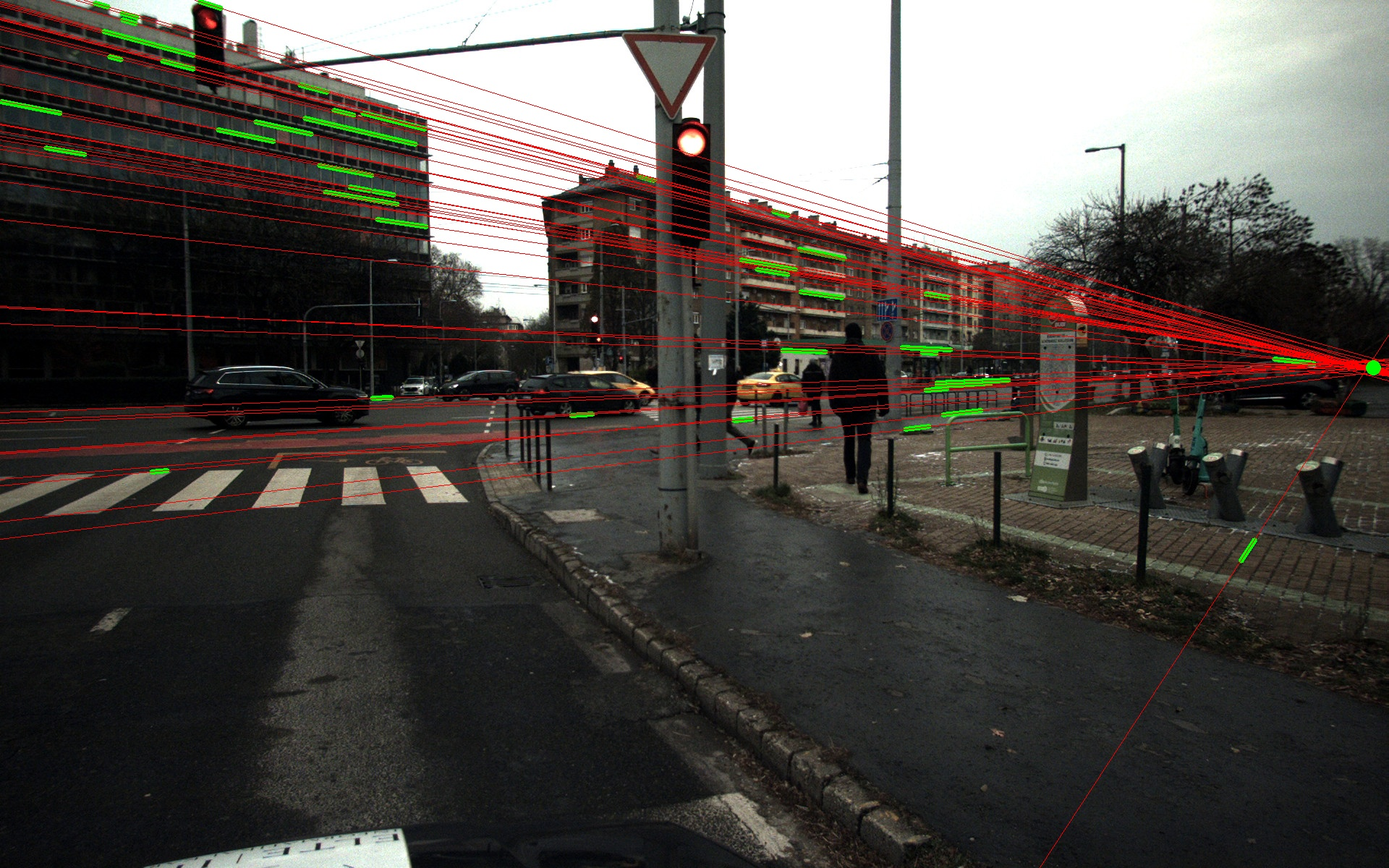
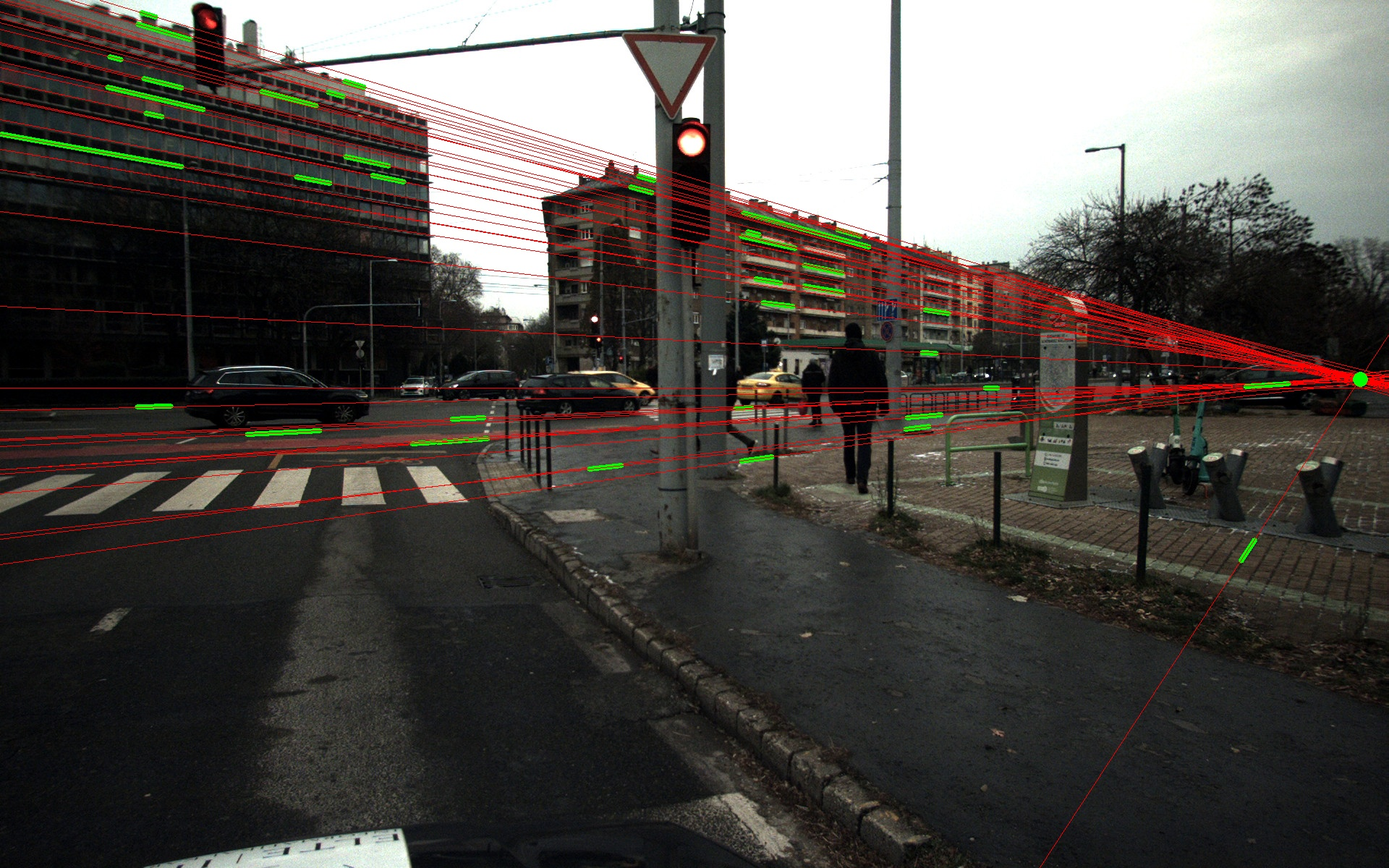
2

Changed region(s): [[0.0, 0.0, 1.0, 0.6167], [0.25, 0.37, 0.5312, 0.4008]]

diff --git a/ForOpenCV/VanishingPointEstimation.cpp b/ForOpenCV/VanishingPointEstimation.cpp
@@ -130,7 +130,7 @@ cv::Point2d VanishingPointEstimation::reestimateVanishingPoint(std::vector<cv::V
 			if (i != j) {
 				a1 = segments.at(i)[1] - segments.at(i)[3]; b1 = segments.at(i)[2] - segments.at(i)[0];
 				a2 = segments.at(j)[1] - segments.at(j)[3]; b2 = segments.at(j)[2] - segments.at(j)[0];
-				if (abs(a1 * b2 - b1 * a2) > 1) {
+				if (abs(a1 * b2 - b1 * a2) > 0) {
 					cv::Point2d p = intersection(segments.at(i), segments.at(j));
 					allVanishingPoints.push_back(p);
 				}
@@ -143,6 +143,54 @@ cv::Point2d VanishingPointEstimation::reestimateVanishingPoint(std::vector<cv::V
 		averageVanishingPoint += allVanishingPoints.at(i) / (int)allVanishingPoints.size();
 	}
 	//visualizeResults(std::vector<cv::Vec4i>{}, allVanishingPoints);
+	return averageVanishingPoint;
+}
+
+cv::Point2d VanishingPointEstimation::reestimateVanishingPointErrorBased(std::vector<cv::Vec4i> segments) {
+	//Finally, re-estimate the vanishing point based on all the inlier line segments. (8 points) 
+	cv::Point2d averageVanishingPoint(0, 0);
+	std::vector<cv::Point2d> allVanishingPoints;
+	float min_error = 1e37;
+	float err_now;
+	float a1, b1, c1;
+	float a2, b2, c2;
+	for (int i = 0; i < segments.size(); i++) {
+		for (int j = 0; j < segments.size(); j++) {
+			if (i != j) {
+				a1 = segments.at(i)[1] - segments.at(i)[3]; b1 = segments.at(i)[2] - segments.at(i)[0];
+				a2 = segments.at(j)[1] - segments.at(j)[3]; b2 = segments.at(j)[2] - segments.at(j)[0];
+				if (abs(a1 * b2 - b1 * a2) > 0) {
+					cv::Point2d p = intersection(segments.at(i), segments.at(j));
+					allVanishingPoints.push_back(p);
+				}
+			}
+		}
+	}
+
+	for (cv::Point2d candidatePoint : allVanishingPoints)
+	{
+		err_now = 0;
+		for (int i = 0; i < segments.size(); i++) {
+			for (int j = 0; j < segments.size(); j++) {
+				if (i != j) {
+					a1 = segments.at(i)[1] - segments.at(i)[3],
+						b1 = segments.at(i)[2] - segments.at(i)[0],
+						c1 = segments.at(i)[0] * segments.at(i)[3] - segments.at(i)[2] * segments.at(i)[1];
+					a2 = segments.at(j)[1] - segments.at(j)[3],
+						b2 = segments.at(j)[2] - segments.at(j)[0],
+						c2 = segments.at(j)[0] * segments.at(j)[3] - segments.at(j)[2] * segments.at(j)[1];
+
+					if (abs(a1 * b2 - b1 * a2) > 0) {
+						err_now = err_now + abs(a1 * candidatePoint.x + b1 * candidatePoint.y + c1) + abs(a2 * candidatePoint.x + b2 * candidatePoint.y + c2);
+					}
+				}
+			}
+		}
+		if (err_now < min_error) {
+			averageVanishingPoint = candidatePoint;
+			min_error = err_now;
+		}
+	}
 	return averageVanishingPoint;
 }
 

diff --git a/ForOpenCV/ForOpenCV.cpp b/ForOpenCV/ForOpenCV.cpp
@@ -15,7 +15,7 @@ int main() {
 
 		std::vector<cv::Vec4i> bestModelSegments = VanishingPointEstimation::chooseBestModel(candidatePoints, lineSegments, 300);
 
-		cv::Point2d bestModelAverageVanishingPoint = VanishingPointEstimation::reestimateVanishingPoint(bestModelSegments);
+		cv::Point2d bestModelAverageVanishingPoint = VanishingPointEstimation::reestimateVanishingPointErrorBased(bestModelSegments);
 
 		cv::Mat finalResult = VanishingPointEstimation::visualizeResults(bestModelSegments, std::vector<cv::Point2d> {bestModelAverageVanishingPoint});
 

diff --git a/ForOpenCV/VanishingPointEstimation.h b/ForOpenCV/VanishingPointEstimation.h
@@ -46,4 +46,7 @@ public:
 										float sigmaThreshold);
 	static cv::Point2d reestimateVanishingPoint(std::vector<cv::Vec4i> segments);
 	static cv::Mat visualizeResults(std::vector<cv::Vec4i> segments, std::vector<cv::Point2d> vanishingPoints);
+	static cv::Point2d reestimateVanishingPointErrorBased(std::vector<cv::Vec4i> segments);
+	static cv::Point2d reestimateVanishingPointErrorBasedFast(std::vector<cv::Vec4i> segments) {
+	};
 };
